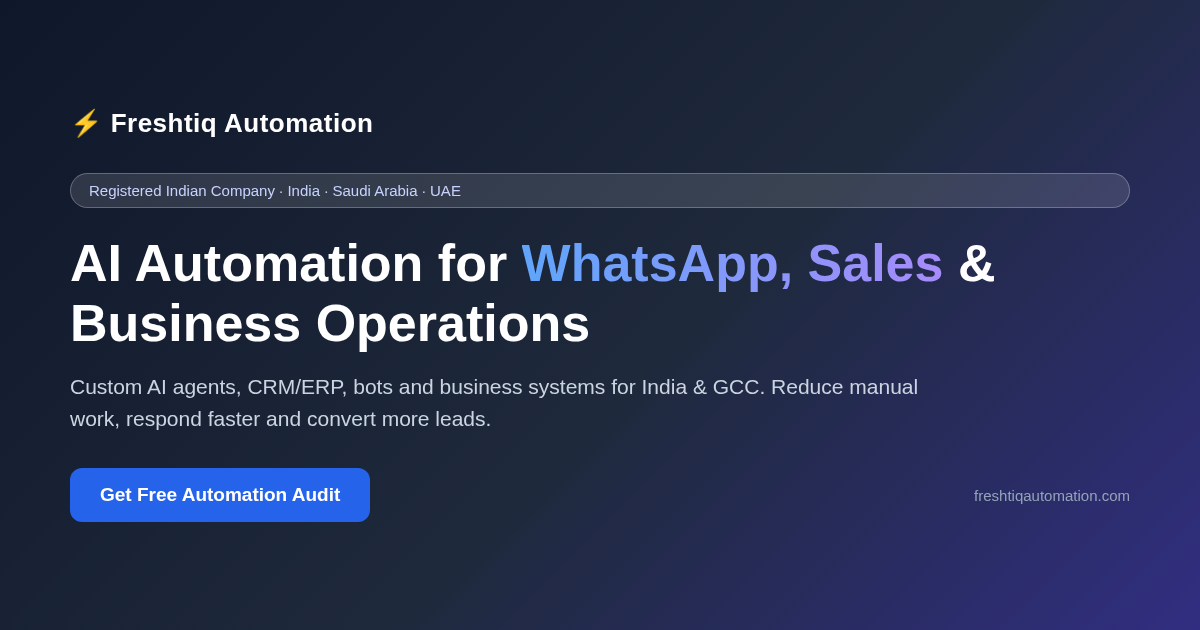
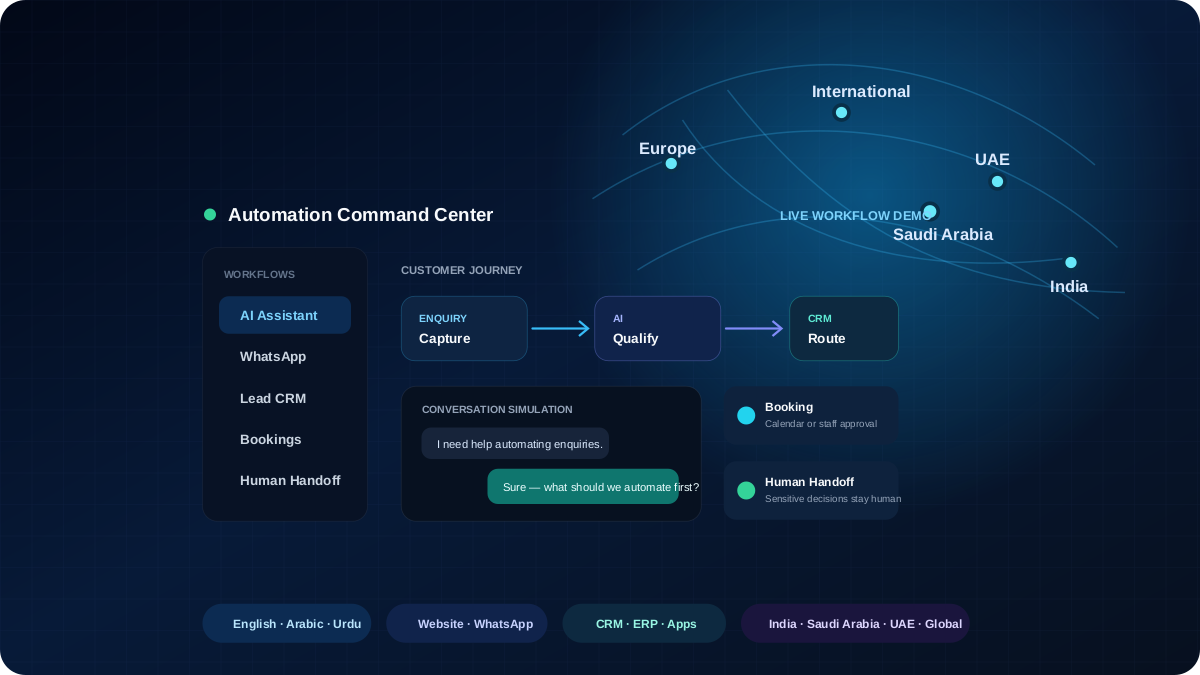
Launch premium international homepage experience

diff --git a/index.html b/index.html
@@ -5,9 +5,9 @@
   <meta name="viewport" content="width=device-width, initial-scale=1.0">
   <meta name="google-site-verification" content="j9dbauIqgdcgh2NexpshJQSzPP1ayQUM7XuifqrNZLQ" />
   <title>AI Automation Agency | WhatsApp, CRM &amp; AI Agents | Freshtiq</title>
-  <meta name="description" content="Freshtiq builds WhatsApp automation, AI sales agents, CRM/ERP, websites and custom workflows for businesses in India, Saudi Arabia and the UAE.">
+  <meta name="description" content="Freshtiq builds WhatsApp automation, AI chatbots, CRM/ERP, websites and custom workflows for businesses in India, Saudi Arabia, UAE and international markets.">
   <meta property="og:title" content="AI Automation Agency for India & GCC | Freshtiq Automation">
-  <meta property="og:description" content="WhatsApp automation, AI sales agents, CRM/ERP and practical business systems for India, Saudi Arabia &amp; UAE — built around faster response and better follow-up.">
+  <meta property="og:description" content="WhatsApp automation, AI chatbots, CRM/ERP, websites and business workflows for India, Saudi Arabia, UAE and international teams.">
   <meta property="og:url" content="https://freshtiqautomation.com/">
   <meta property="og:type" content="website">
   <meta property="og:site_name" content="Freshtiq Automation">
@@ -16,7 +16,7 @@
   <link rel="canonical" href="https://freshtiqautomation.com/">
   <link rel="icon" type="image/x-icon" href="https://freshtiqautomation.com/favicon.ico">
   <link rel="icon" type="image/svg+xml" href="favicon.svg">
-  <link rel="stylesheet" href="style.css?v=20260915svc1">
+  <link rel="stylesheet" href="style.css?v=20260918global1">
   <script async src="https://www.googletagmanager.com/gtag/js?id=G-Y80ZGMYR1Y"></script>
   <script>window.dataLayer=window.dataLayer||[];function gtag(){dataLayer.push(arguments);}gtag('js',new Date());gtag('config','G-Y80ZGMYR1Y');</script>
   <script type="application/ld+json">
@@ -79,7 +79,7 @@
   .step-card p{font-size:0.85rem;line-height:1.6;opacity:0.85;margin:0;}
   </style>
 </head>
-<body>
+<body class="home-premium">
 
   <nav id="navbar">
     <div class="nav-inner">
@@ -89,8 +89,8 @@
         <a href="services.html">Solutions</a>
         <a href="industries.html">Industries</a>
         <a href="portfolio/">Case Studies</a>
-          <a href="/insights/">Insights &amp; Guides</a>
-        <a href="ai-store.html">AI Store</a>
+        <a href="/demo/">Live Demo</a>
+        <a href="/insights/">Insights</a>
         <a href="pricing.html">Pricing</a>
         <a href="about.html">About</a>
         <a href="contact.html">Contact</a>
@@ -101,33 +101,34 @@
   <main id="main-content">
 
   <!-- HERO -->
-  <section class="hero growth-hero">
-    <div class="hero-inner growth-hero-grid">
-      <div class="hero-banner-wrap">
-        <picture>
-          <source media="(max-width:640px)" srcset="images/hero-automation-banner-mobile.svg">
-          <img class="hero-banner" src="images/hero-automation-banner.svg" width="1600" height="620" alt="Freshtiq Automation dashboard and services: WhatsApp automation, AI agents, CRM and ERP, custom workflows for businesses in India, Saudi Arabia and UAE" loading="eager" fetchpriority="high" decoding="async">
-        </picture>
+  <section class="premium-hero" aria-labelledby="premiumHeroTitle">
+    <div class="premium-hero-orb premium-orb-a"></div><div class="premium-hero-orb premium-orb-b"></div>
+    <div class="premium-hero-shell">
+      <div class="premium-hero-copy">
+        <div class="premium-eyebrow"><span></span> AI AUTOMATION · INDIA · SAUDI ARABIA · UAE · GLOBAL</div>
+        <h1 id="premiumHeroTitle">Build a Business That <em>Responds, Qualifies &amp; Follows Up</em> Automatically.</h1>
+        <p>Freshtiq designs premium websites, AI chatbots, WhatsApp automation, CRM/ERP and custom workflows for teams that want faster customer response and cleaner operations — without removing human control where it matters.</p>
+        <div class="premium-market-row"><span>🇮🇳 India</span><span>🇸🇦 Saudi Arabia</span><span>🇦🇪 UAE</span><span>🌍 International</span></div>
+        <div class="premium-hero-actions"><a href="#free-audit" class="premium-primary" onclick="gtag('event','cta_click',{page:'hero',cta:'free_audit_global'})">Book Free Consultation <b>→</b></a><a href="/demo/" class="premium-secondary">▶ Explore Live Demo</a></div>
+        <div class="premium-trust-line"><span>✓ Registered Indian company</span><span>✓ English + Arabic-ready</span><span>✓ Written scope</span><span>✓ Source-code handover</span></div>
       </div>
-      <div class="hero-content">
-        <div class="hero-badge"><span class="dot"></span> India · Saudi Arabia · UAE · English + Arabic-ready workflows</div>
-        <h1>Stop Losing Leads. <span class="gradient-text">Let AI Follow Up 24/7.</span></h1>
-        <p class="hero-sub">Freshtiq builds WhatsApp automation, AI sales agents, CRM/ERP and custom workflows that capture enquiries, qualify them and keep follow-ups moving — without forcing you to replace the tools you already use.</p>
-        <div class="hero-proof-row"><span>✓ Registered Indian company</span><span>✓ Fixed written scope</span><span>✓ Source-code handover</span><span>✓ India + GCC delivery</span></div>
-        <div class="hero-ctas"><a href="#free-audit" class="btn-primary" onclick="gtag('event','cta_click',{page:'hero',cta:'free_audit_inline'})">Get My Free Automation Plan</a><a href="https://wa.me/918381848389?text=Hi%20Freshtiq!%20I%20want%20a%20free%20automation%20audit%20for%20my%20business." target="_blank" rel="noopener" class="btn-secondary">💬 WhatsApp Us</a></div>
-        <p class="hero-microcopy">No payment to request an audit. Tell us the bottleneck; we will recommend the smallest useful automation first.</p>
+      <div class="premium-hero-visual">
+        <picture><source media="(max-width:640px)" srcset="images/premium-global-automation-hero-mobile.svg"><img src="images/premium-global-automation-hero.svg" width="1600" height="900" alt="Global Freshtiq automation workflow connecting customer enquiries to AI qualification, CRM routing, bookings and human handoff" fetchpriority="high" decoding="async"></picture>
       </div>
-      <div class="growth-lead-card" id="free-audit">
-        <div class="lead-card-kicker">FREE 15-MINUTE AUTOMATION AUDIT</div><h2>Where is your business losing time or leads?</h2><p>Send 4 details. We will reply with a practical automation direction.</p>
+    </div>
+    <div class="premium-service-ribbon" aria-label="Freshtiq services"><span>AI Chatbots</span><span>Website &amp; Apps</span><span>WhatsApp Automation</span><span>Lead Qualification</span><span>CRM / ERP</span><span>Workflow Automation</span></div>
+    <div class="premium-audit-wrap" id="free-audit">
+      <div class="premium-audit-intro"><span class="premium-audit-kicker">FREE WORKFLOW AUDIT</span><h2>Tell us where your business is losing time or enquiries.</h2><p>Share four details. We will recommend the smallest useful first automation — no payment required to request the audit.</p><div class="premium-audit-note">🔒 No passwords, OTPs or payment details required.</div></div>
+      <div class="growth-lead-card premium-audit-card">
         <form id="heroLeadForm" class="hero-lead-form">
           <label>Your name<input id="heroLeadName" name="name" autocomplete="name" required placeholder="Your name"></label>
           <label>WhatsApp number<input id="heroLeadPhone" name="phone" type="tel" autocomplete="tel" required placeholder="+91 / +966 / +971"></label>
           <label>Country<select id="heroLeadCountry" name="country" required><option value="">Choose country</option><option>India</option><option>Saudi Arabia</option><option>UAE</option><option>Other</option></select></label>
-          <label>What should we improve?<select id="heroLeadNeed" name="need" required><option value="">Choose one</option><option>WhatsApp replies & follow-up</option><option>Lead capture / CRM</option><option>AI customer support</option><option>ERP / operations</option><option>Website / lead generation</option><option>Not sure — audit my process</option></select></label>
+          <label>What should we improve?<select id="heroLeadNeed" name="need" required><option value="">Choose one</option><option>WhatsApp replies &amp; follow-up</option><option>Lead capture / CRM</option><option>AI customer support</option><option>ERP / operations</option><option>Website / lead generation</option><option>Not sure — audit my process</option></select></label>
           <label class="lead-consent"><span><input id="heroLeadWaConsent" name="whatsapp_opt_in" type="checkbox" required> <span id="heroLeadWaConsentText">Yes, Freshtiq may contact me on WhatsApp about this request. I can reply STOP anytime.</span></span></label>
-          <label class="lead-consent optional"><span><input id="heroLeadMarketingConsent" name="marketing_opt_in" type="checkbox"> <span id="heroLeadMarketingConsentText">Also send me occasional Freshtiq automation tips and offers on WhatsApp (optional).</span></span></label>
+          <label class="lead-consent optional"><span><input id="heroLeadMarketingConsent" name="marketing_opt_in" type="checkbox"> <span id="heroLeadMarketingConsentText">Also send occasional Freshtiq automation tips and offers on WhatsApp (optional).</span></span></label>
           <input id="heroLeadWebsite" name="website" tabindex="-1" autocomplete="off" class="hp-field" aria-hidden="true"><button type="submit" class="lead-submit">Get My Free Plan →</button><div id="heroLeadStatus" class="lead-status" aria-live="polite"></div>
-        </form><div class="lead-card-trust">🔒 Your details are used only to respond to this request.</div>
+        </form>
       </div>
     </div>
   </section>
@@ -135,11 +136,11 @@
   <!-- TRUST BAR -->
   <section class="trust-bar">
     <div class="trust-inner">
-      <div class="trust-item">Registered Indian Company (CIN U47912UP2025OPC236875)</div>
-      <div class="trust-item">India + GCC Delivery</div>
-      <div class="trust-item">Custom-Built Systems</div>
-      <div class="trust-item">Source Code Handover</div>
-      <div class="trust-item">Milestone-Based Projects</div>
+      <div class="trust-item"><b>Verified business</b><small>CIN U47912UP2025OPC236875</small></div>
+      <div class="trust-item"><b>India + GCC + Global</b><small>Remote delivery</small></div>
+      <div class="trust-item"><b>Custom-built systems</b><small>Not one-size-fits-all templates</small></div>
+      <div class="trust-item"><b>Source-code handover</b><small>For custom work we build</small></div>
+      <div class="trust-item"><b>Human approval gates</b><small>For sensitive decisions</small></div>
     </div>
   </section>
 

diff --git a/style.css b/style.css
@@ -1089,3 +1089,13 @@ html[dir="rtl"] bdi[dir="ltr"]{direction:ltr!important;unicode-bidi:isolate!impo
 @media (prefers-reduced-motion:no-preference){
   .glass-card{transition:transform .25s ease, box-shadow .25s ease;}
 }
+
+
+/* === PREMIUM GLOBAL HOMEPAGE · 2026-09-18 === */
+.home-premium{background:#f7f9fc;color:#334155}.home-premium #navbar{height:78px;background:rgba(2,8,23,.82);backdrop-filter:blur(22px) saturate(1.2);-webkit-backdrop-filter:blur(22px);border-bottom:1px solid rgba(148,163,184,.12)}.home-premium #navbar.scrolled{background:rgba(2,8,23,.94);border-bottom-color:rgba(56,189,248,.14);box-shadow:0 12px 35px rgba(2,8,23,.18)}.home-premium #navbar .logo img{content:url('/images/freshtiq-logo-footer.svg?v=20260912p2');height:46px}.home-premium #navbar .nav-links a{color:#dbeafe;font-size:.75rem;font-weight:750}.home-premium #navbar .nav-links a:hover{color:#67e8f9;background:rgba(56,189,248,.08)}.home-premium #navbar .nav-cta{background:linear-gradient(135deg,#06b6d4,#2563eb)!important;color:#fff!important;box-shadow:0 8px 28px rgba(14,165,233,.24)}
+.premium-hero{position:relative;overflow:hidden;padding:128px 28px 72px;background:linear-gradient(145deg,#020817 0%,#06152d 46%,#07101f 100%);color:#fff}.premium-hero:before{content:'';position:absolute;inset:0;background-image:linear-gradient(rgba(96,165,250,.045) 1px,transparent 1px),linear-gradient(90deg,rgba(96,165,250,.045) 1px,transparent 1px);background-size:54px 54px;mask-image:linear-gradient(to bottom,black,transparent 78%);pointer-events:none}.premium-hero-orb{position:absolute;border-radius:50%;filter:blur(100px);pointer-events:none}.premium-orb-a{width:520px;height:520px;background:rgba(14,165,233,.17);top:-180px;right:4%}.premium-orb-b{width:420px;height:420px;background:rgba(99,102,241,.12);left:-160px;bottom:220px}.premium-hero-shell{position:relative;z-index:2;max-width:1380px;margin:auto;display:grid;grid-template-columns:minmax(0,.96fr) minmax(520px,1.04fr);gap:48px;align-items:center}.premium-hero-copy{padding:34px 0 22px}.premium-eyebrow{display:flex;align-items:center;gap:11px;font-size:.72rem;letter-spacing:1.65px;font-weight:900;color:#67e8f9;margin-bottom:22px}.premium-eyebrow span{width:32px;height:2px;background:linear-gradient(90deg,#22d3ee,#6366f1);border-radius:5px}.premium-hero h1{font-size:clamp(2.75rem,4.45vw,4.65rem);line-height:1.01;letter-spacing:-3.1px;margin:0;max-width:760px;color:#f8fafc}.premium-hero h1 em{font-style:normal;background:linear-gradient(100deg,#67e8f9 0%,#38bdf8 38%,#818cf8 78%,#c4b5fd 100%);-webkit-background-clip:text;background-clip:text;color:transparent}.premium-hero-copy>p{font-size:clamp(1rem,1.28vw,1.17rem);line-height:1.78;color:#b7c6dc;max-width:690px;margin:26px 0 22px}.premium-market-row{display:flex;flex-wrap:wrap;gap:8px;margin:0 0 28px}.premium-market-row span{padding:8px 12px;border:1px solid rgba(125,211,252,.16);border-radius:999px;background:rgba(15,23,42,.42);color:#dbeafe;font-size:.78rem;font-weight:750}.premium-hero-actions{display:flex;gap:13px;flex-wrap:wrap}.premium-primary,.premium-secondary{display:inline-flex;align-items:center;justify-content:center;gap:10px;min-height:54px;padding:0 23px;border-radius:14px;font-weight:900;text-decoration:none;transition:.25s}.premium-primary{background:linear-gradient(135deg,#22d3ee,#2563eb);color:#04111f;box-shadow:0 13px 40px rgba(14,165,233,.24)}.premium-primary:hover{transform:translateY(-2px);box-shadow:0 18px 46px rgba(14,165,233,.32)}.premium-secondary{border:1px solid rgba(148,163,184,.28);background:rgba(15,23,42,.42);color:#e2e8f0}.premium-secondary:hover{border-color:#67e8f9;color:#67e8f9;transform:translateY(-2px)}.premium-trust-line{display:flex;gap:8px 18px;flex-wrap:wrap;margin-top:22px;color:#94a3b8;font-size:.74rem;font-weight:700}.premium-trust-line span:before{color:#34d399}.premium-hero-visual{position:relative}.premium-hero-visual:before{content:'';position:absolute;inset:8% 10%;background:#0ea5e9;filter:blur(80px);opacity:.13;border-radius:50%}.premium-hero-visual img{position:relative;width:100%;height:auto;display:block;border-radius:26px;border:1px solid rgba(125,211,252,.18);box-shadow:0 36px 90px rgba(0,0,0,.46)}
+.premium-service-ribbon{position:relative;z-index:2;max-width:1380px;margin:50px auto 0;display:grid;grid-template-columns:repeat(6,1fr);border:1px solid rgba(148,163,184,.14);border-radius:18px;overflow:hidden;background:rgba(8,18,37,.72);backdrop-filter:blur(14px)}.premium-service-ribbon span{padding:15px 12px;text-align:center;color:#cbd5e1;font-size:.75rem;font-weight:800;border-right:1px solid rgba(148,163,184,.12)}.premium-service-ribbon span:last-child{border-right:0}.premium-audit-wrap{position:relative;z-index:2;max-width:1280px;margin:36px auto 0;display:grid;grid-template-columns:.72fr 1.28fr;gap:24px;align-items:stretch;background:linear-gradient(135deg,rgba(14,39,70,.94),rgba(8,20,41,.94));border:1px solid rgba(125,211,252,.18);border-radius:24px;padding:22px;box-shadow:0 24px 60px rgba(0,0,0,.24)}.premium-audit-intro{padding:20px 18px}.premium-audit-kicker{display:inline-block;font-size:.7rem;letter-spacing:1.5px;font-weight:900;color:#67e8f9;margin-bottom:12px}.premium-audit-intro h2{font-size:1.65rem;line-height:1.15;letter-spacing:-.6px;color:#f8fafc;margin:0 0 12px}.premium-audit-intro p{color:#a8bad1;font-size:.9rem;line-height:1.65}.premium-audit-note{margin-top:18px;font-size:.74rem;color:#64748b}.premium-audit-card{background:#fff!important;border:0!important;box-shadow:none!important;margin:0!important;padding:22px!important;border-radius:17px!important}.premium-audit-card .hero-lead-form label{color:#334155}.premium-audit-card .lead-submit{background:linear-gradient(135deg,#0ea5e9,#2563eb)!important;color:#fff!important;border:0!important;box-shadow:0 9px 24px rgba(37,99,235,.18)}
+.home-premium .trust-bar{background:#fff;border-bottom:1px solid #e5edf7;padding:0 28px}.home-premium .trust-inner{max-width:1280px;display:grid;grid-template-columns:repeat(5,1fr);gap:0}.home-premium .trust-item{padding:20px 18px;border-right:1px solid #e5edf7;display:flex;flex-direction:column;gap:2px;color:#0f172a;text-align:left}.home-premium .trust-item:last-child{border-right:0}.home-premium .trust-item b{font-size:.82rem}.home-premium .trust-item small{font-size:.69rem;color:#64748b;line-height:1.35}.home-premium .growth-problem-strip{background:linear-gradient(180deg,#f7fbff,#fff);border-top:0}.home-premium .growth-problem-grid>div:not(.flow-arrow){background:#fff;border:1px solid #e2e8f0;border-radius:16px;padding:17px;box-shadow:0 8px 28px rgba(15,23,42,.04)}.home-premium .region-link-card,.home-premium .service-card,.home-premium .glass-card,.home-premium .organic-guide-card{transition:transform .25s var(--ease-out),box-shadow .25s,border-color .25s}.home-premium .region-link-card:hover,.home-premium .service-card:hover,.home-premium .glass-card:hover,.home-premium .organic-guide-card:hover{transform:translateY(-5px);border-color:#93c5fd;box-shadow:0 18px 45px rgba(37,99,235,.10)}
+@media(max-width:1080px){.premium-hero-shell{grid-template-columns:1fr;gap:34px}.premium-hero-copy{max-width:820px}.premium-hero h1{max-width:900px}.premium-hero-visual{max-width:920px}.premium-service-ribbon{grid-template-columns:repeat(3,1fr)}.premium-service-ribbon span:nth-child(3){border-right:0}.premium-service-ribbon span:nth-child(-n+3){border-bottom:1px solid rgba(148,163,184,.12)}.premium-audit-wrap{grid-template-columns:1fr}.home-premium .trust-inner{grid-template-columns:repeat(3,1fr)}}
+@media(max-width:768px){.home-premium #navbar .nav-links{background:#020817}.premium-hero{padding:104px 18px 48px}.premium-hero h1{font-size:clamp(2.45rem,12vw,4rem);letter-spacing:-2.3px}.premium-hero-shell{gap:28px}.premium-hero-copy{padding-top:8px}.premium-hero-copy>p{margin-top:20px}.premium-hero-actions{display:grid}.premium-primary,.premium-secondary{width:100%}.premium-trust-line{display:grid;grid-template-columns:1fr 1fr}.premium-service-ribbon{grid-template-columns:repeat(2,1fr);margin-top:30px}.premium-service-ribbon span{border-bottom:1px solid rgba(148,163,184,.12)}.premium-service-ribbon span:nth-child(2n){border-right:0}.premium-audit-wrap{padding:14px;margin-top:24px}.premium-audit-intro{padding:14px 10px}.premium-audit-card{padding:18px!important}.home-premium .trust-inner{grid-template-columns:1fr}.home-premium .trust-item{border-right:0;border-bottom:1px solid #e5edf7;text-align:center}.premium-market-row{gap:6px}.premium-market-row span{font-size:.72rem;padding:7px 10px}}
+@media(prefers-reduced-motion:reduce){.premium-primary,.premium-secondary,.home-premium .region-link-card,.home-premium .service-card,.home-premium .glass-card{transition:none}}
